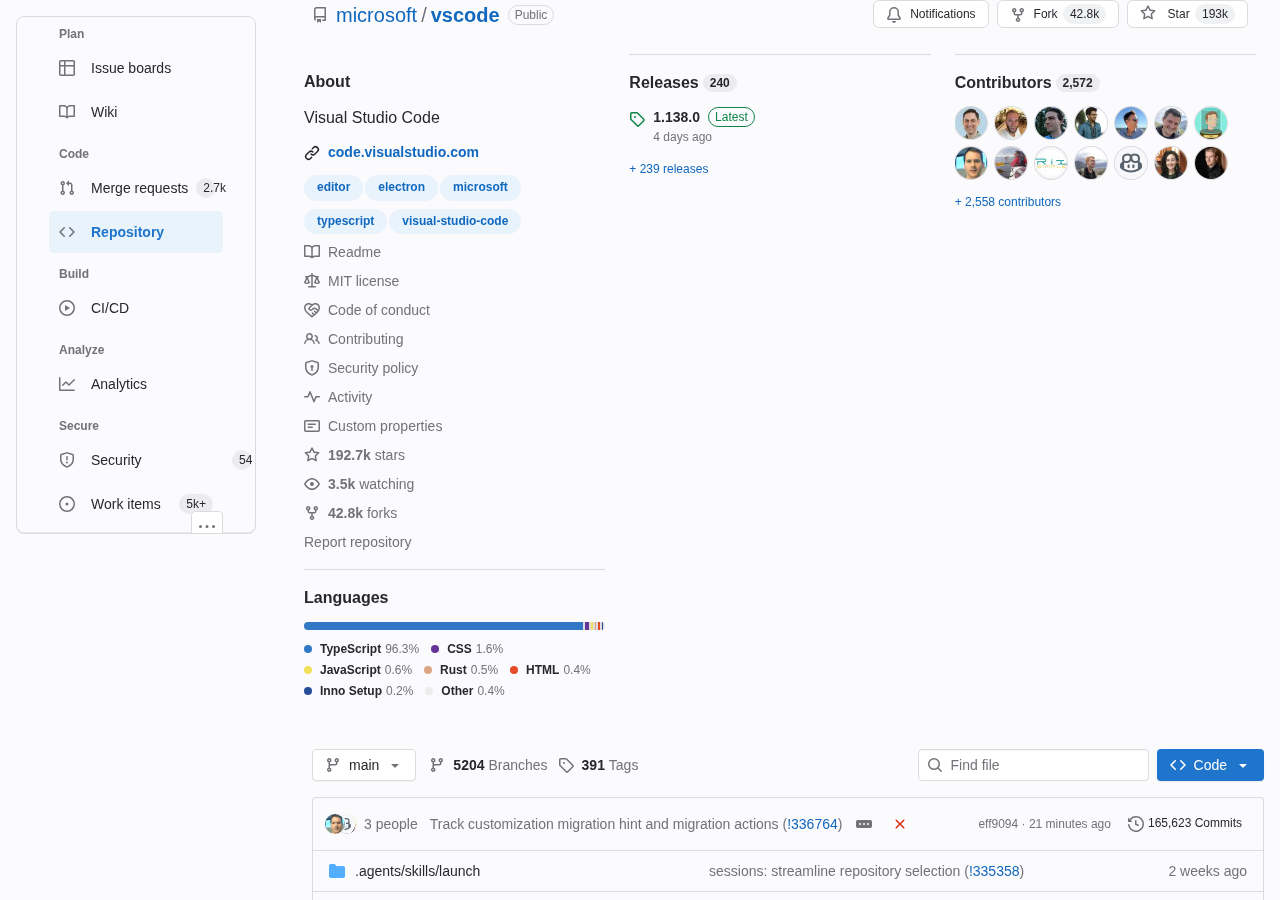
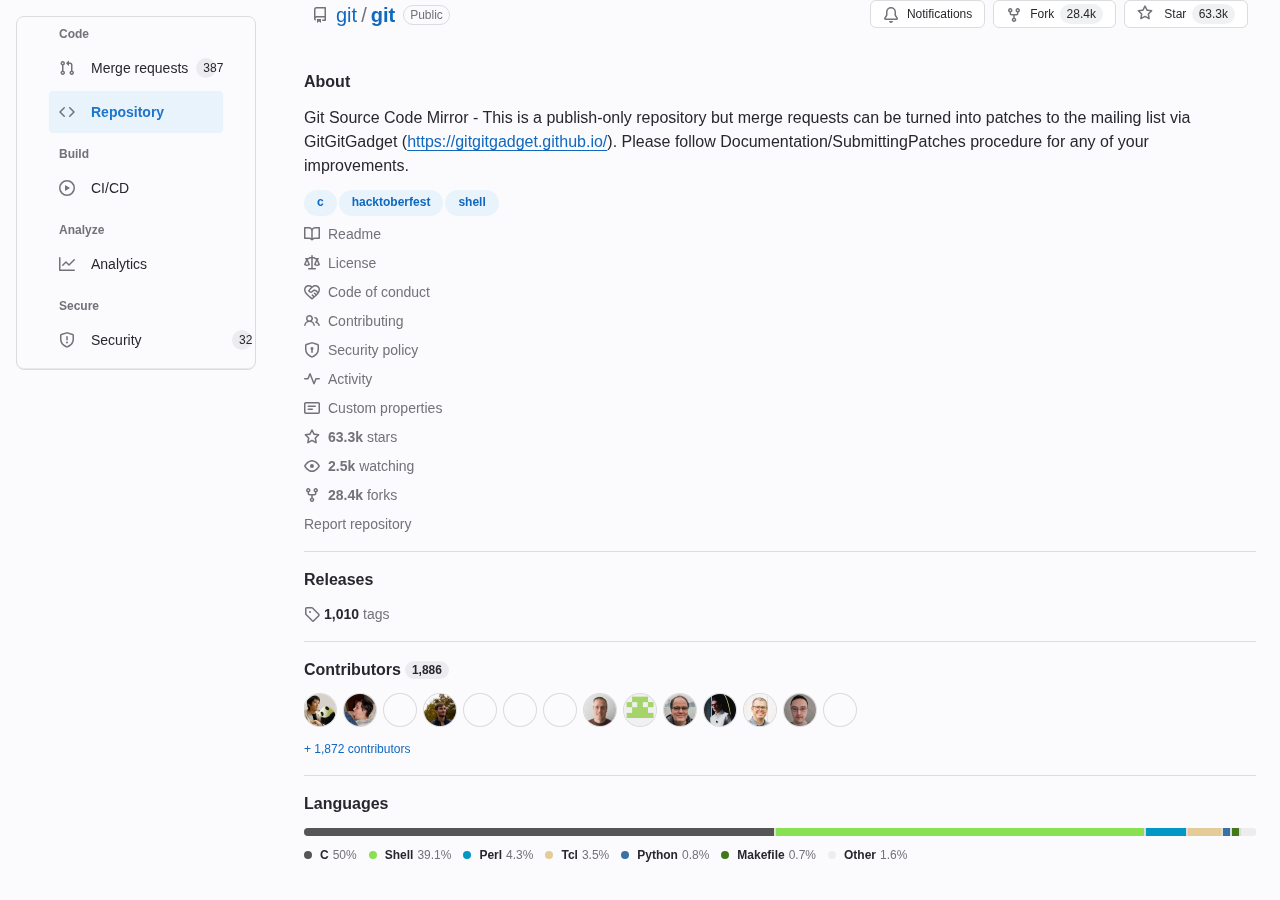
fix(ux): align the GitLab-skin project metadata as one full-width column
GitLab's "Project information" is a single full-width column with its sections
stacked, not flowed into columns. The G→L metadata block now matches that
alignment. Regenerates the published G→L preview.

diff --git a/src/themes/github-as-gitlab.css b/src/themes/github-as-gitlab.css
@@ -372,10 +372,10 @@ html.gs-theme-gitlab
 
 html.gs-theme-gitlab [class*="CodeViewSidebar-"] {
   width: 100% !important;
-  /* Flow the sections into columns so the block stays compact, the way GitLab's
-     project information reads, instead of a tall stack. */
-  grid-template-columns: repeat(auto-fit, minmax(300px, 1fr)) !important;
-  column-gap: 24px !important;
+  /* GitLab's "Project information" is one full-width column with the sections
+     stacked, so the block is aligned the way GitLab's is rather than flowed
+     into columns. */
+  grid-template-columns: minmax(0, 1fr) !important;
 }
 
 /* GitLab has no equivalent of GitHub's top bar — its navigation is the sidebar
